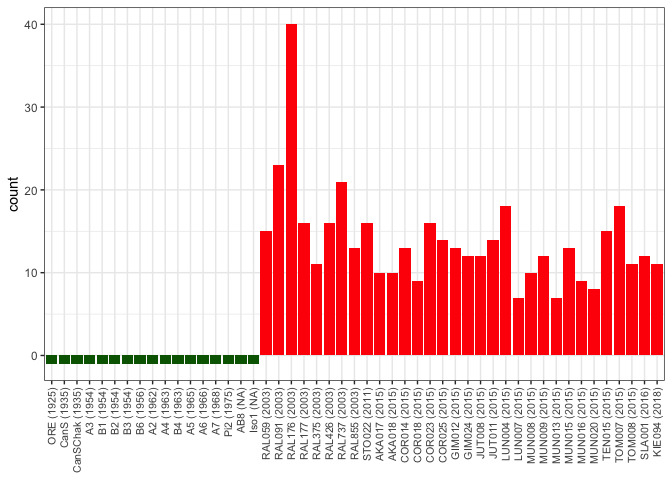
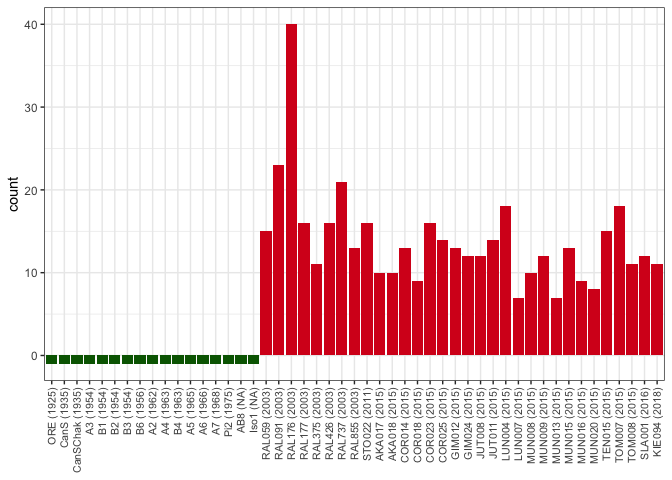
added pele ro

Changed region(s): [[0.375, 0.0312, 1.0, 0.75]]

diff --git a/2023-09-Dmel-LR-assemblies/02-all-LR-overview.md b/2023-09-Dmel-LR-assemblies/02-all-LR-overview.md
@@ -69,7 +69,7 @@ h[h$count==0,]$count<- -1
 #
 
 p<- ggplot(h,aes(y=count,x=reorder(name,year),fill=ap))+geom_bar(stat="identity")+ylab("count")+
-  scale_fill_manual(values=c("#016301","#FF0505"))+
+  scale_fill_manual(values=c("#016301","#D71E1E"))+
  theme(legend.position = "none", axis.title.x=element_blank(),axis.text.x = element_text(angle = 90, vjust = 0.5, hjust=1,size=8))
 plot(p)
 ```
